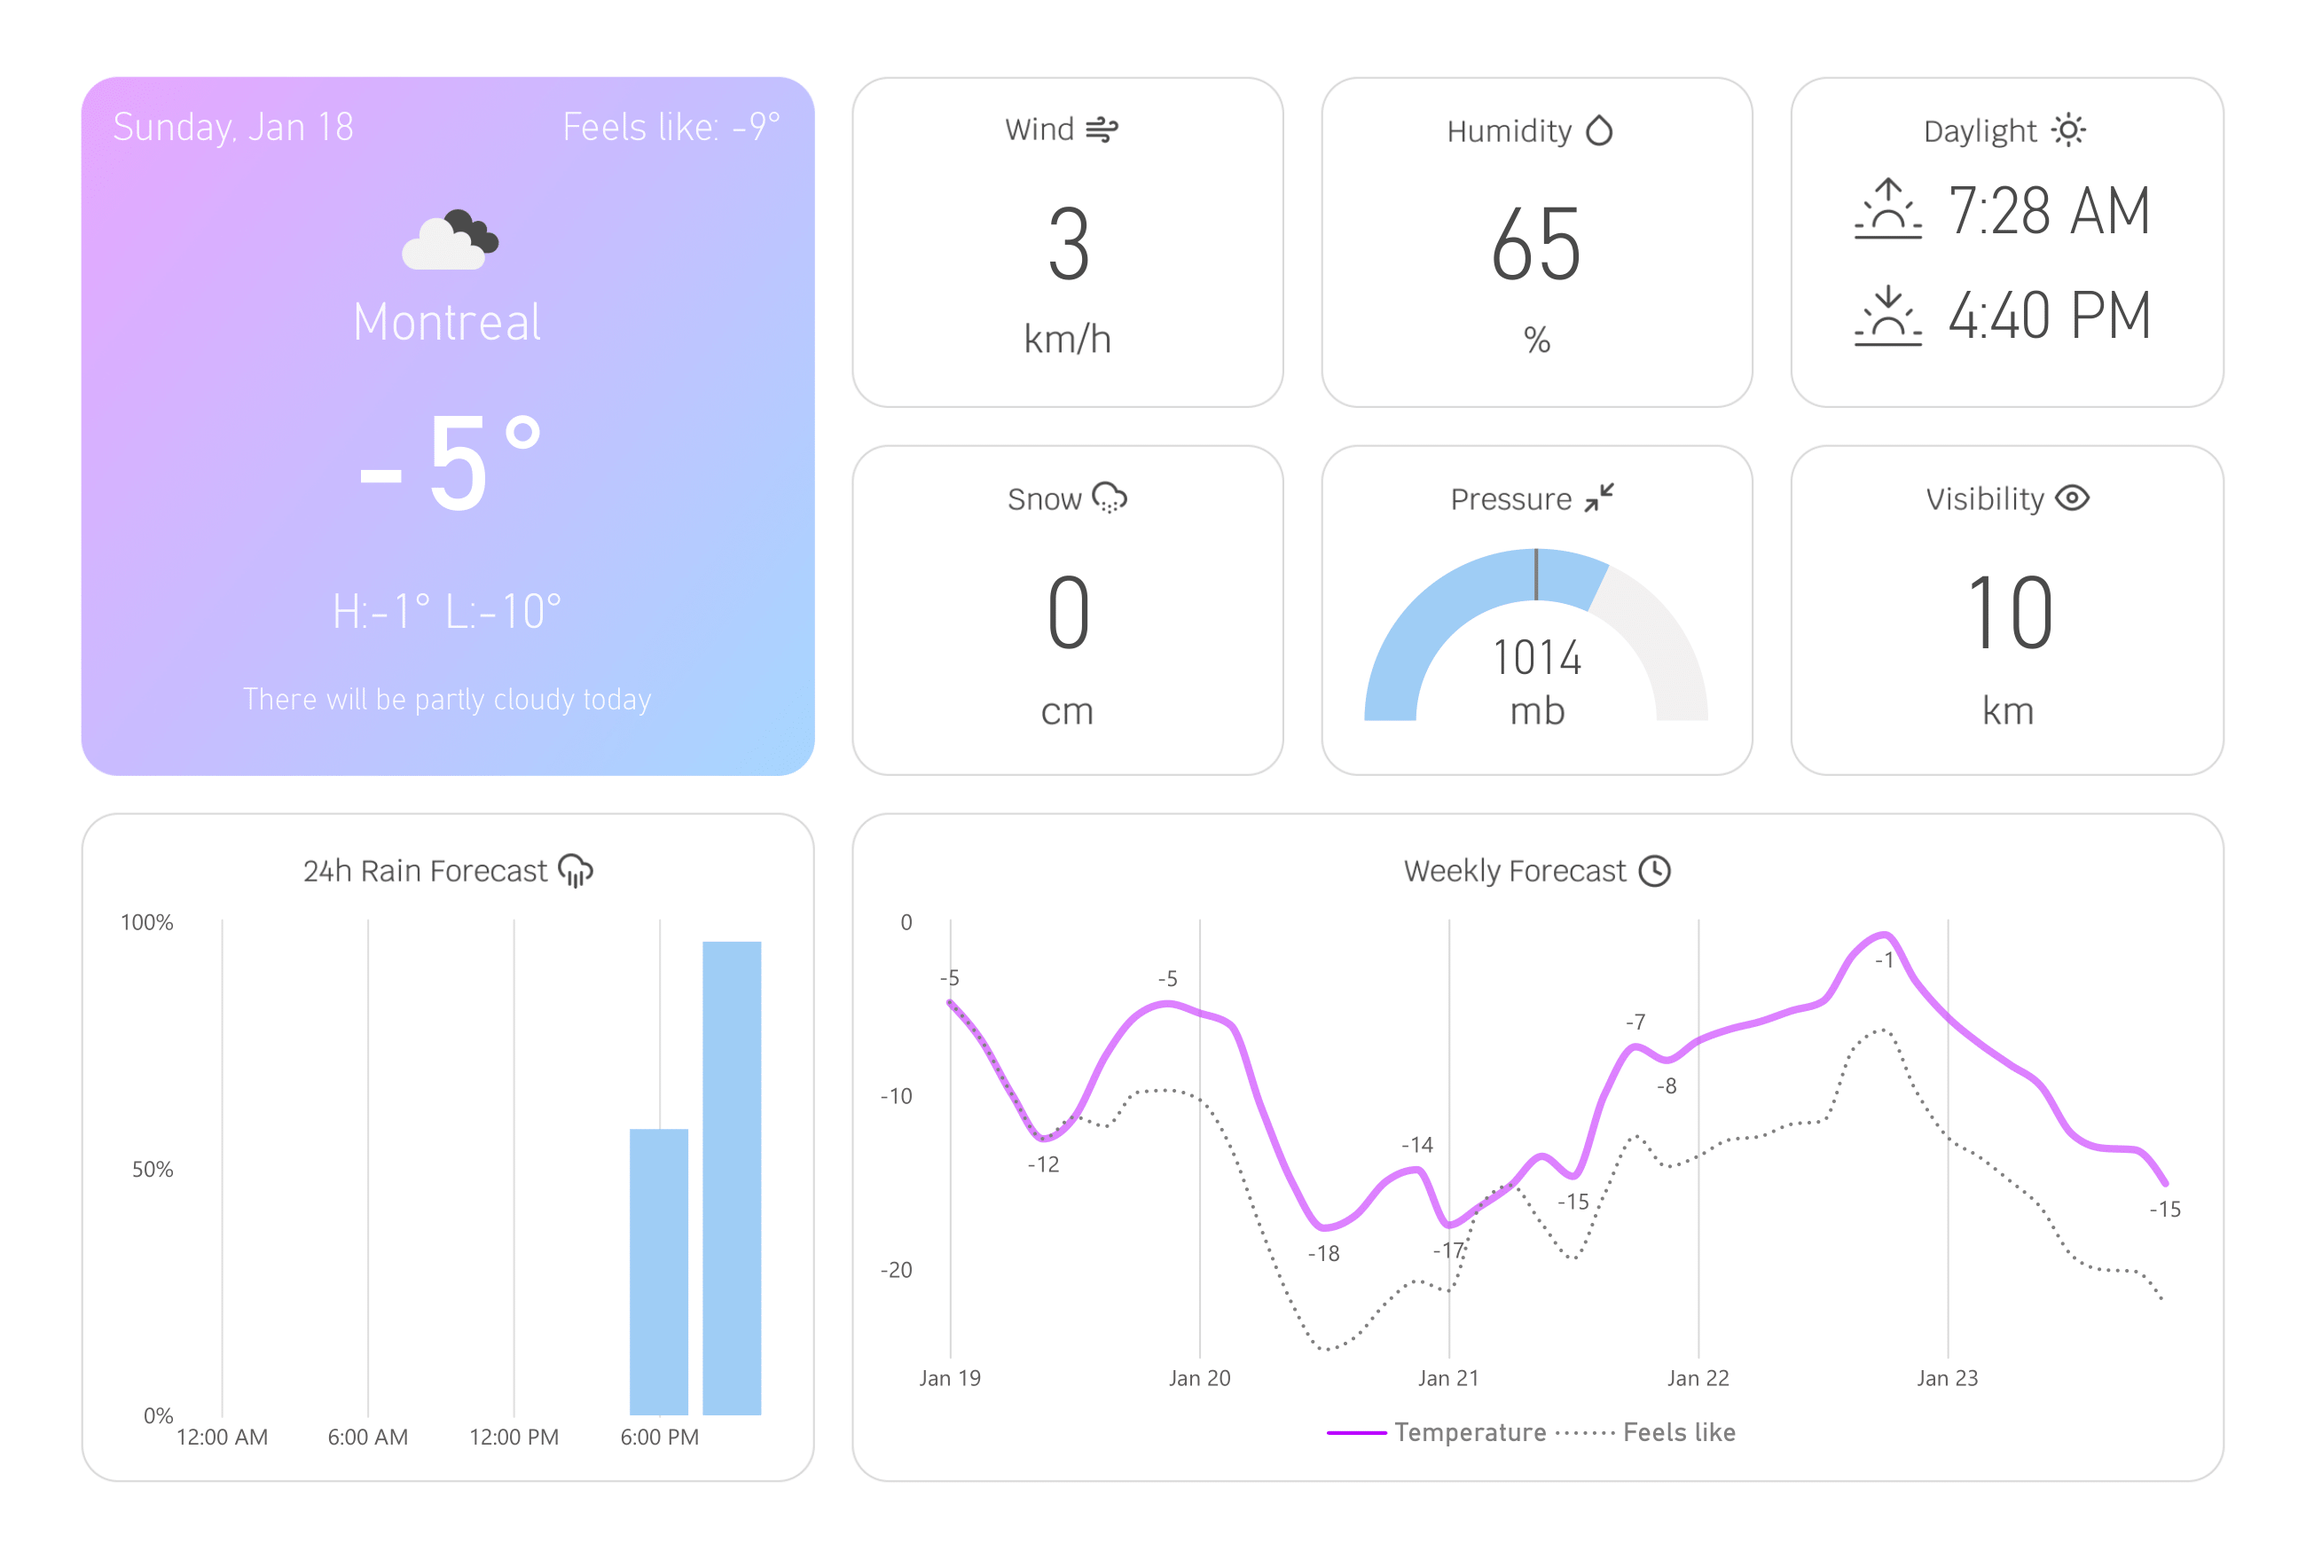
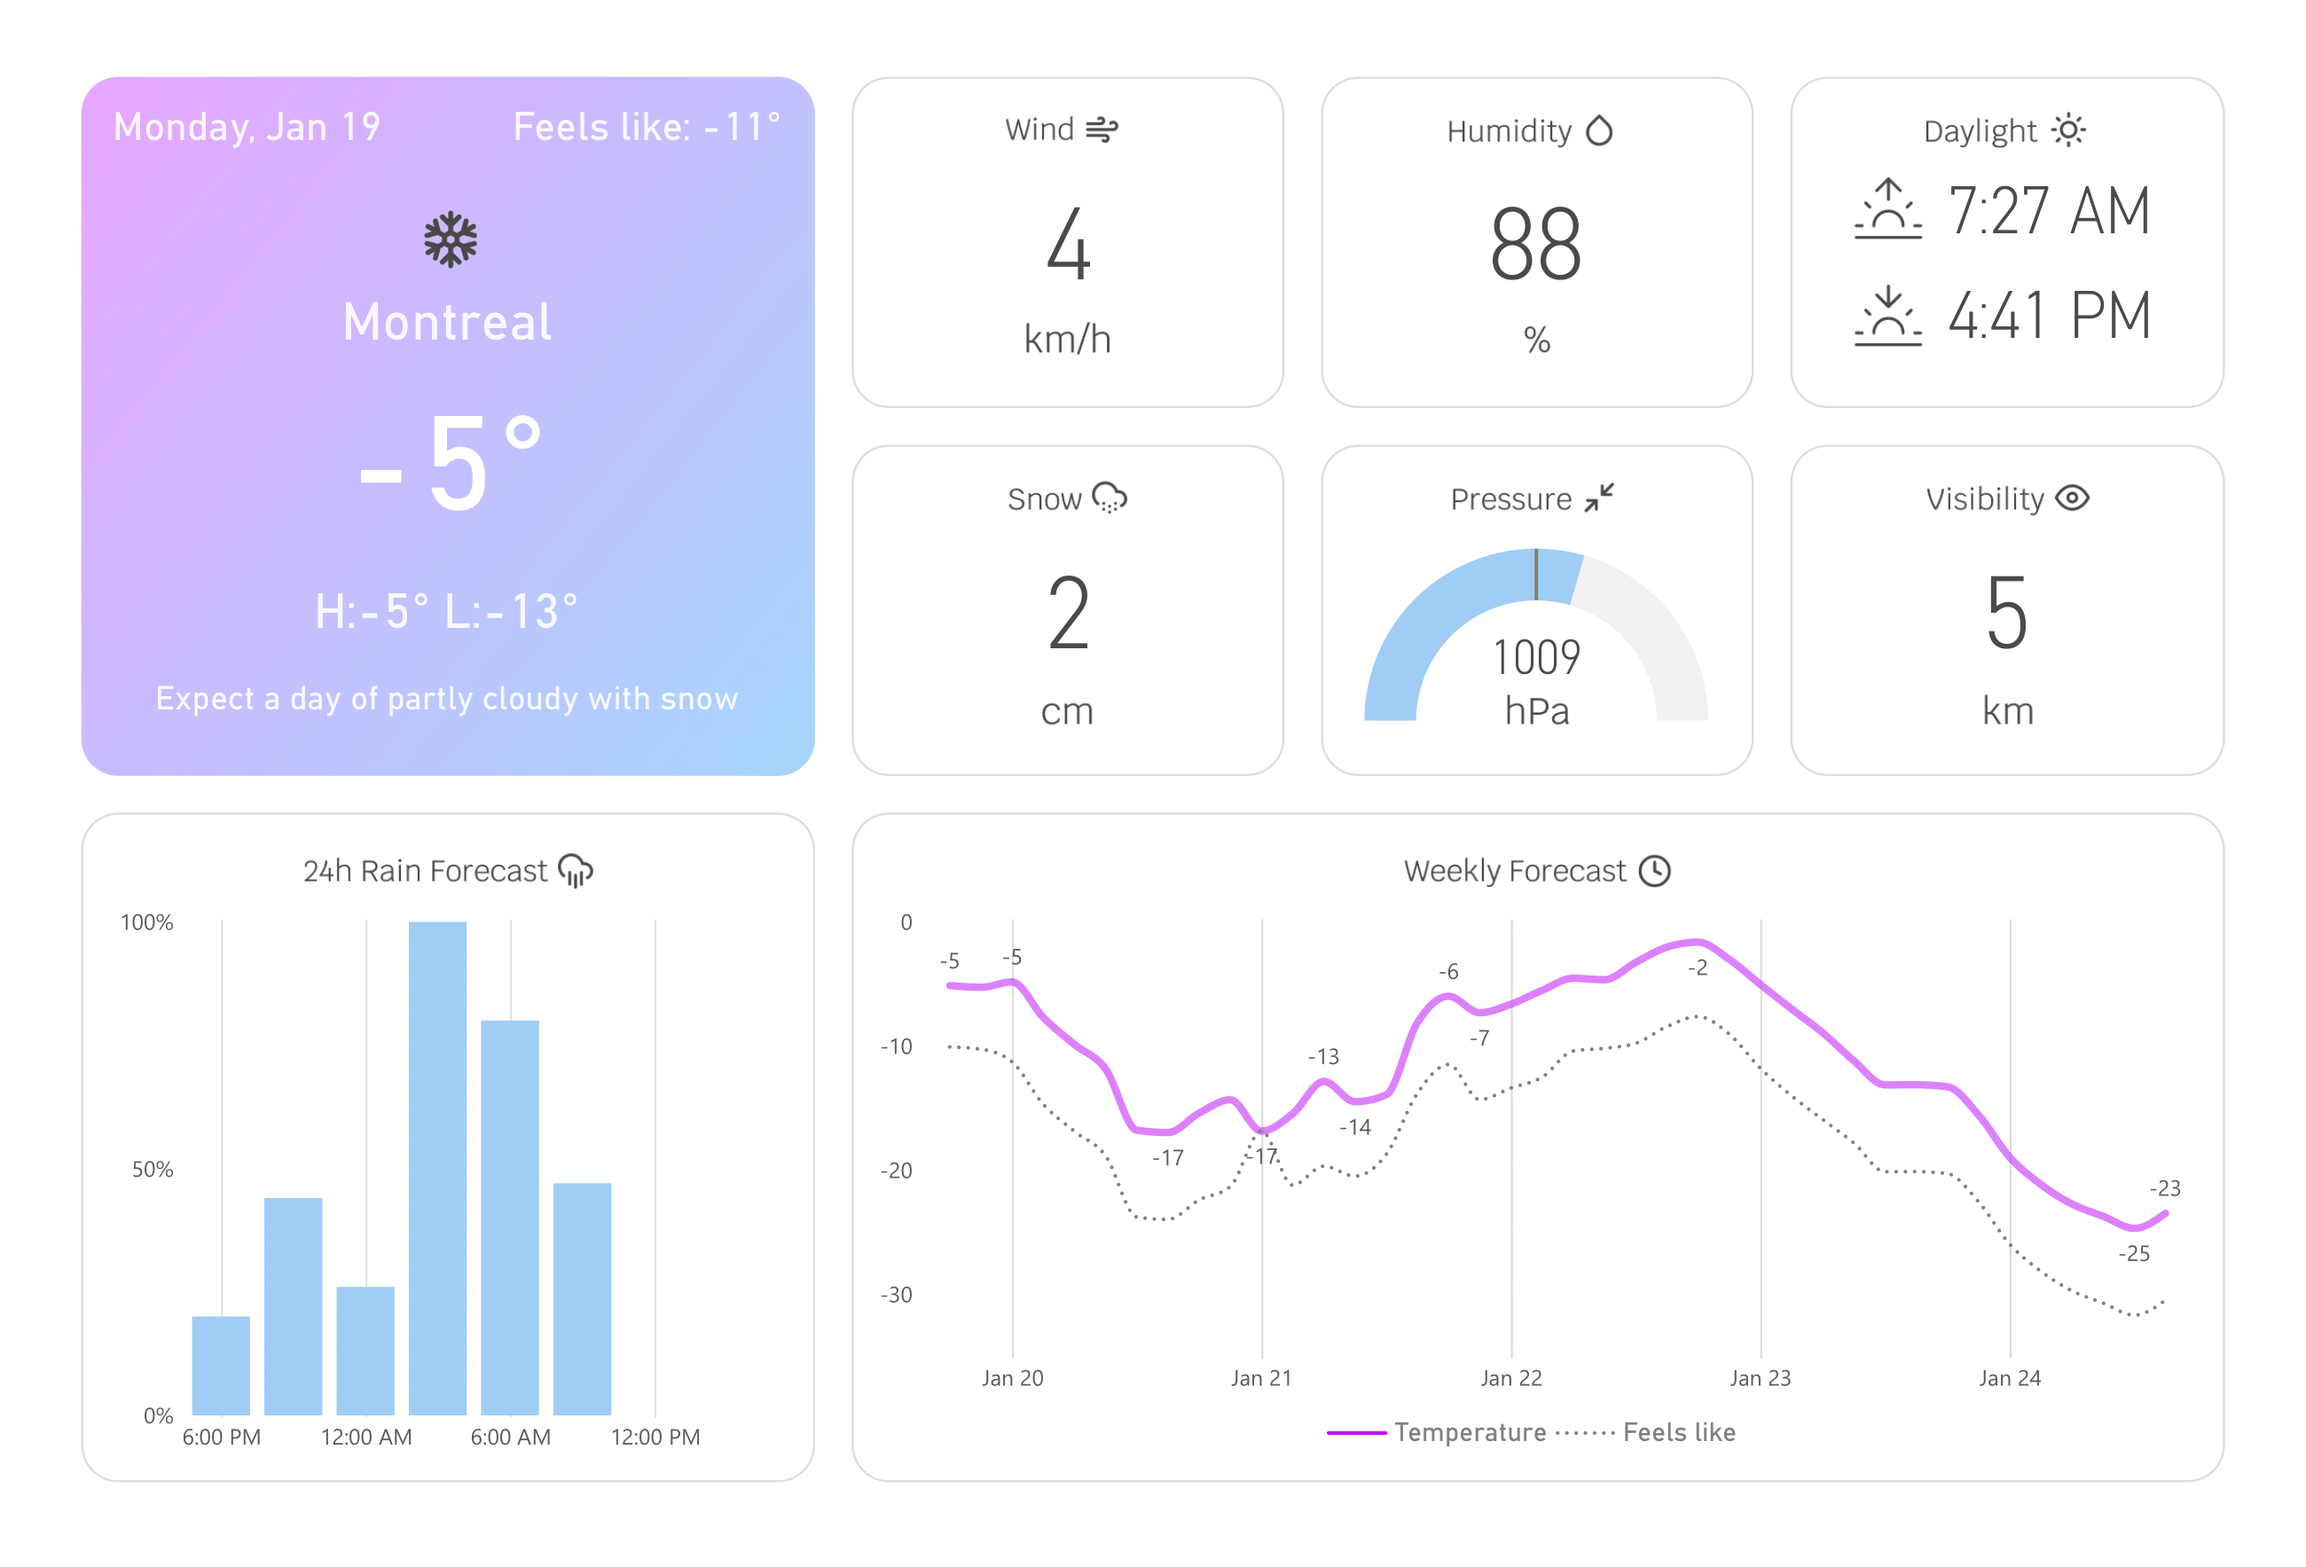
Update README.md

diff --git a/3-montreal-weather/README.md b/3-montreal-weather/README.md
@@ -17,10 +17,10 @@ The dataset is sourced from **OpenWeather One Call 3.0** and **Forecast API** th
 > All metrics are specific to **Montreal** and are intended for city-level analysis only.
 > Forecast values may vary based on API refresh timing and data provider updates.
 
-## Key Questions
+## Analytical Questions
 
 1. What are the **current weather conditions** in Montreal?  
-2. How will **temperature evolve** over the next 7 days?  
+2. How will **temperature evolve** over the next 5 days?  
 3. Is **rain** or **snow** expected in the short term?  
 4. What are the current **atmospheric conditions** (wind, humidity, pressure, visibility)?
 
@@ -36,7 +36,7 @@ The dashboard design was inspired by the **Apple iOS Weather app**, prioritizing
   - Daily high & low temperatures  
   - Short textual weather summary  
 - **Bar Chart** — 24-hour rain forecast  
-- **Line Chart** — Weekly temperature forecast:
+- **Line Chart** — 5-day temperature forecast:
   - Temperature  
   - Feels-like temperature  
 - **Cards**:
@@ -69,7 +69,7 @@ The dashboard design was inspired by the **Apple iOS Weather app**, prioritizing
 - Historical weather analysis and year-over-year comparisons  
 - Performance optimization for larger datasets  
 - Deployment through Power BI Service with scheduled refreshes  
-- Mobile-optimized dashboard layout
+- Mobile-optimized dashboard layout for improved accessibility on smaller screens
 
 ## Tools
 
